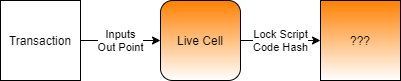
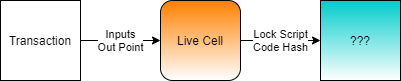
GitBook: [master] 28 pages and 2 assets modified

Changed region(s): [[0.7781, 0.0, 1.0, 0.9136]]

diff --git a/managing-permissions/using-a-custom-lock-script.md b/managing-permissions/using-a-custom-lock-script.md
@@ -34,22 +34,19 @@ The code hash is describing the code that should execute, but it does not indica
 
 ### Cell Deps
 
-We already learned about Input Cells and Output Cells, but there is a third type called Cell Deps. Short for Cell Dependencies, Cell Deps are similar to Input Cells, but they are not consumed. They can be used repeatedly by many scripts as a read-only component of the transaction.
+We already learned about input cells and output cells, but there is a third type called cell deps. Short for cell dependencies, cell deps are similar to input cells, but they are not consumed. They can be used repeatedly by many scripts as a read-only component of the transaction.
 
-Some of the common uses of Cells Deps are:
+Some of the common uses of cells deps are:
 
-* Script Code - A Lock Script references the `code_hash` of the code it needs to execute, but it still needs to know where the code resides. This is done by specifying a Live Cell that contains this code as a Cell Dep.
+* Script Code - A lock script references the `code_hash` of the code it needs to execute, but it still needs to know where the code resides. This is done by specifying a live cell that contains this code as a cell dep.
 * Script Libraries - Just like a library for a normal application, a script library contains commonly used code in scripts.
-* State Data - A Cell can contain any data, including state data for a smart contract. Data from an oracle is a good example. The data published by the oracle is read-only and can be utilized by many smart contracts that rely on it.
+* State Data - A cell can contain any data, including state data for a smart contract. Data from an oracle is a good example. The data published by the oracle is read-only and can be utilized by many smart contracts that rely on it.
 
-### Default Lock Script Cell Deps
+With the addition of cell deps we now have a complete path from the transaction to the code.
 
[1 lines of base64/hex data omitted]
+![](../.gitbook/assets/transaction-connections-2.png)
 
-```javascript
-// Add the cell dep for the lock script.
[1 lines of base64/hex data omitted]
-```
+Live Cell \#1 has a lock script with a `code_hash` that matches the data in Live Cell \#2. The data in Live Cell \#2 is a RISC-V binary that contains the logic needed to determine if a cell should unlock in a transaction.
 
-The code above is how we can quickly add a Cell Dep for the default Lock Script. You don't need to dig into this now. Just know that it is using Lumos to locate an out point for a Live Cell that contains the script code needed to execute the default Lock Script.
+### 
 

diff --git a/unused-content.md b/unused-content.md
@@ -117,3 +117,20 @@ The output from `account list` in `ckb-cli` shows the `lock_arg`.
 
 Pay close attention to the `lock_arg` value of the first account. The `lock_arg` has a value of `0xc8328aabcd9b9e8e64fbc566c4385c3bdeb219d7` which is an exact match for the `lock_arg` values in the previous screenshot of the live cell. The `lock_arg` is the account that owns the Cell, and since it matches, we know that those Cells are owned by the first account listed in the above screenshot.
 
+
+
+
+
+
+
+### Default Lock Script Cell Deps
+
[1 lines of base64/hex data omitted]
+
+```javascript
+// Add the cell dep for the lock script.
[1 lines of base64/hex data omitted]
+```
+
+The code above is how we can quickly add a Cell Dep for the default Lock Script. You don't need to dig into this now. Just know that it is using Lumos to locate an out point for a Live Cell that contains the script code needed to execute the default Lock Script.
+
